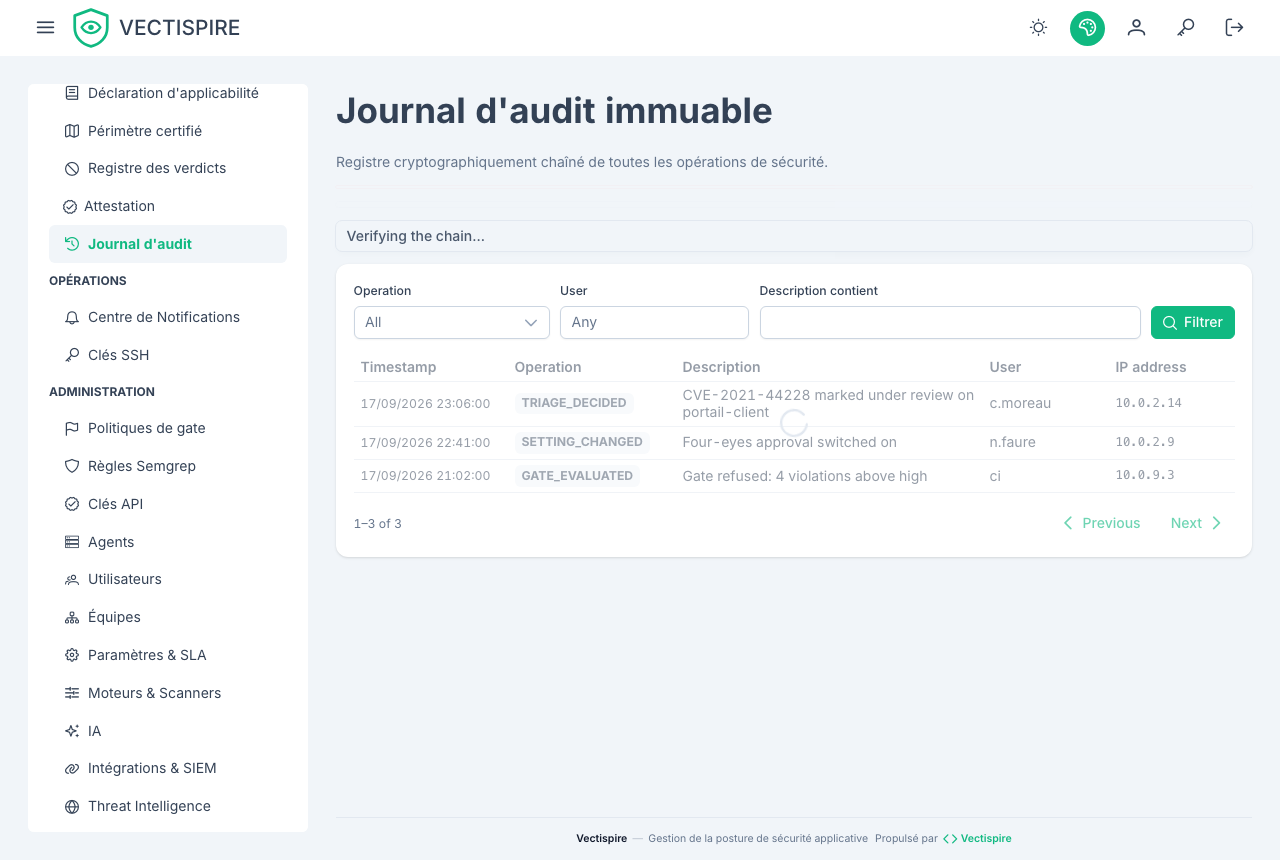
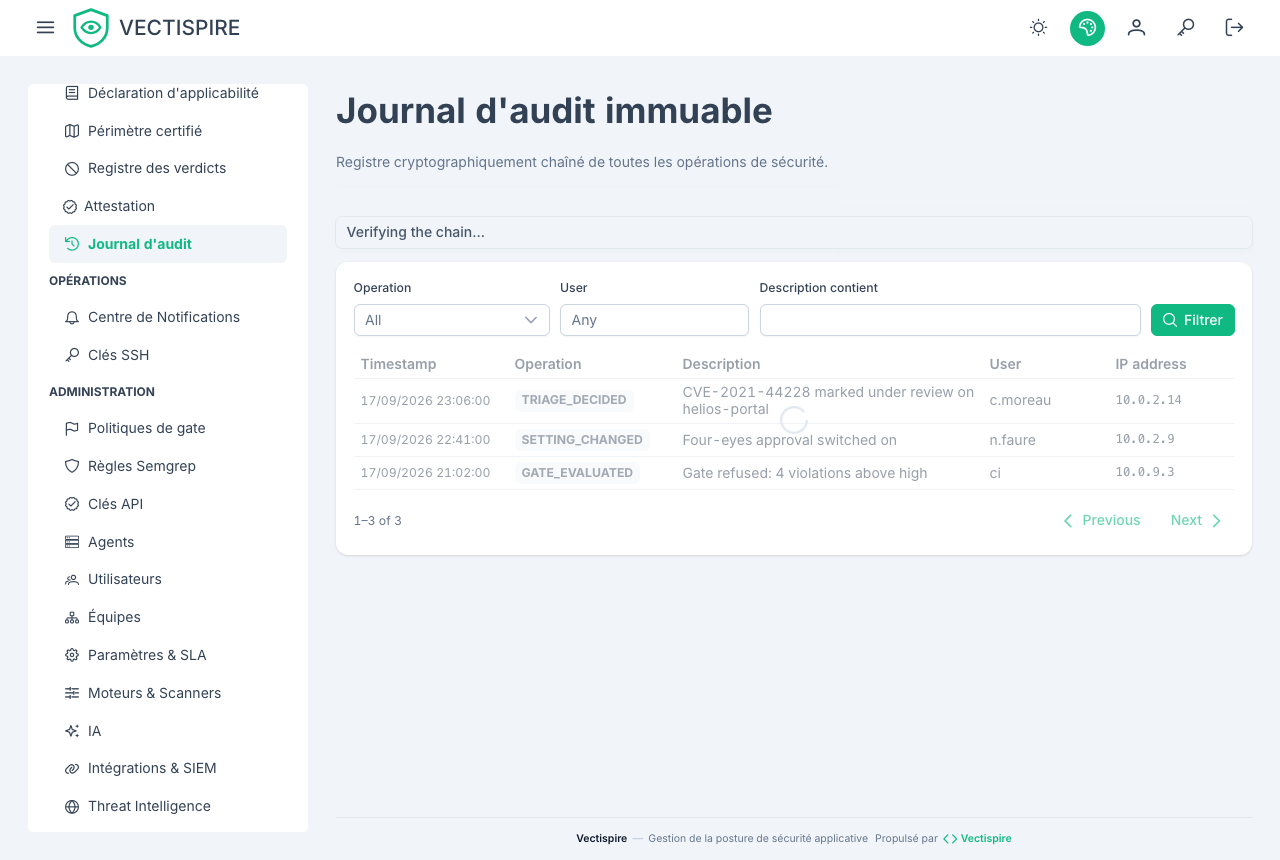
docs(screens): fictional project names in the fixtures
The captures showed "portail-client" and "arm-libs", two names that read like
somebody's real estate. They are now "helios-portal" and "basalt-libs", which
read like what they are: invented.

The rename covers every fixture that carries them, not only the two screens
asked about — a screenshot naming one project and a unit test naming another
would leave the old names in the repository for no gain.

diff --git a/vectispire-angular/e2e/screens.spec.ts b/vectispire-angular/e2e/screens.spec.ts
@@ -160,7 +160,7 @@ test.describe('documentation screenshots', () => {
             await stub(page, '**/api/v1/exceptions*', {
                 entries: [{
                     issue_id: 41, identifier: 'CVE-2026-0001', severity: 'critical',
-                    target_kind: 'REPOSITORY', target_id: 7, target_name: 'portail-client',
+                    target_kind: 'REPOSITORY', target_id: 7, target_name: 'helios-portal',
                     decision: 'not_affected', justification: 'vulnerable_code_not_in_execute_path',
                     comment: null, actor: 'c.moreau', origin: 'manual',
                     decided_at: '2026-01-12T09:00:00Z', expires_at: '2026-08-12T00:00:00Z',
@@ -316,14 +316,14 @@ test.describe('documentation screenshots', () => {
                     {
                         issueId: 41, identifier: 'CVE-2021-44228', title: 'Log4Shell',
                         severity: 'critical', cvssScore: 10.0, epssScore: 0.975, epssPercentile: 0.999,
-                        isKev: true, reachability: 'REACHABLE', targetName: 'portail-client',
+                        isKev: true, reachability: 'REACHABLE', targetName: 'helios-portal',
                         targetKind: 'REPOSITORY', priorityScore: 98, priorityTier: 'CRITICAL_ARMED',
                         recommendedAction: 'P0_KEV_24H'
                     },
                     {
                         issueId: 42, identifier: 'CVE-2024-1086', title: 'Kernel use-after-free',
                         severity: 'high', cvssScore: 7.8, epssScore: 0.41, epssPercentile: 0.97,
-                        isKev: false, reachability: 'UNKNOWN', targetName: 'arm-libs',
+                        isKev: false, reachability: 'UNKNOWN', targetName: 'basalt-libs',
                         targetKind: 'REPOSITORY', priorityScore: 64, priorityTier: 'HIGH_PROBABLE',
                         recommendedAction: 'P1_7D'
                     }
@@ -341,17 +341,17 @@ test.describe('documentation screenshots', () => {
             const locale = edition(testInfo.project.name);
             await stubEverything(page);
             await stub(page, '**/api/v1/repositories*', [
-                { id: 5, name: 'portail-client', url: 'ssh://git@example.invalid/portail.git', branch: 'main' }
+                { id: 5, name: 'helios-portal', url: 'ssh://git@example.invalid/helios-portal.git', branch: 'main' }
             ]);
             // The history the two pickers read. It replaced two number fields asking for internal
             // identifiers, so a capture showing dates is the whole point of the change.
             await stub(page, '**/api/v1/scans*', [
                 { id: 34, status: 'completed', branch: 'main', targetKind: 'REPOSITORY',
-                  targetName: 'portail-client', createdAt: '2026-09-17T21:04:00Z', durationMs: 91_000,
+                  targetName: 'helios-portal', createdAt: '2026-09-17T21:04:00Z', durationMs: 91_000,
                   findingsCount: 7, newIssuesCount: 1, resolvedIssuesCount: 3, error: null,
                   claimedBy: null, attempts: 1, targetId: 5 },
                 { id: 33, status: 'completed', branch: 'main', targetKind: 'REPOSITORY',
-                  targetName: 'portail-client', createdAt: '2026-09-10T21:03:00Z', durationMs: 88_000,
+                  targetName: 'helios-portal', createdAt: '2026-09-10T21:03:00Z', durationMs: 88_000,
                   findingsCount: 9, newIssuesCount: 0, resolvedIssuesCount: 0, error: null,
                   claimedBy: null, attempts: 1, targetId: 5 }
             ]);
@@ -361,7 +361,7 @@ test.describe('documentation screenshots', () => {
             // The comparison is the second tab; by position, because the label is translated.
             await page.getByRole('button').filter({ hasText: /SBOM|diff|comparaison/i }).first().click();
             await page.locator('#diff-target').click();
-            await page.getByRole('option').filter({ hasText: 'portail-client' }).first().click();
+            await page.getByRole('option').filter({ hasText: 'helios-portal' }).first().click();
 
             // The two most recent are preselected, so the screen answers "since last time" before
             // anybody clicks. A capture of two empty pickers would be a capture of the old defect.
@@ -377,13 +377,13 @@ test.describe('documentation screenshots', () => {
                            neverScannedCount: 1, lastScanFailedCount: 1 },
                 backlogBySeverity: { CRITICAL: 4, HIGH: 12, MEDIUM: 31, LOW: 365 },
                 failing: [
-                    { kind: 'repository', targetId: 5, name: 'portail-client', violations: [] },
+                    { kind: 'repository', targetId: 5, name: 'helios-portal', violations: [] },
                     { kind: 'container', targetId: 3, name: 'registry.example/api:1.4', violations: [] }
                 ],
                 recentScans: [
-                    { id: 34, status: 'completed', targetKind: 'repository', targetName: 'portail-client',
+                    { id: 34, status: 'completed', targetKind: 'repository', targetName: 'helios-portal',
                       repoId: 5, containerId: null, error: null, createdAt: '2026-09-17T21:04:00Z' },
-                    { id: 33, status: 'failed', targetKind: 'repository', targetName: 'arm-libs',
+                    { id: 33, status: 'failed', targetKind: 'repository', targetName: 'basalt-libs',
                       repoId: 6, containerId: null, error: 'clone refused', createdAt: '2026-09-17T03:10:00Z' }
                 ]
             });
@@ -404,7 +404,7 @@ test.describe('documentation screenshots', () => {
             await enterApp(page, locale);
             await openScreen(page, '/dashboard');
 
-            await expect(page.getByText('portail-client').first()).toBeVisible({ timeout: 15_000 });
+            await expect(page.getByText('helios-portal').first()).toBeVisible({ timeout: 15_000 });
             await shoot(page, 'dashboard', locale);
         });
 
@@ -421,9 +421,9 @@ test.describe('documentation screenshots', () => {
             });
             await stub(page, '**/api/v1/issues*', {
                 items: [
-                    issue(41, 'CVE-2021-44228', 'critical', 'log4j-core', '2.14.1', 'portail-client'),
+                    issue(41, 'CVE-2021-44228', 'critical', 'log4j-core', '2.14.1', 'helios-portal'),
                     issue(42, 'CVE-2024-1086', 'high', 'linux-libc-dev', '6.1.0', 'registry.example/api:1.4'),
-                    issue(43, 'CVE-2023-44487', 'medium', 'netty-codec-http2', '4.1.94', 'arm-libs')
+                    issue(43, 'CVE-2023-44487', 'medium', 'netty-codec-http2', '4.1.94', 'basalt-libs')
                 ],
                 total: 412, limit: 25, offset: 0
             });
@@ -440,13 +440,13 @@ test.describe('documentation screenshots', () => {
             const locale = edition(testInfo.project.name);
             await stubEverything(page);
             await stub(page, '**/api/v1/repositories*', [
-                { id: 5, url: 'ssh://git@example.invalid/portail.git', branch: 'main',
-                  displayName: 'portail-client', name: 'portail-client', subPath: null }
+                { id: 5, url: 'ssh://git@example.invalid/helios-portal.git', branch: 'main',
+                  displayName: 'helios-portal', name: 'helios-portal', subPath: null }
             ]);
             // Node notes and the scenario are tokens since this week: the graph and its narrative
             // are written by the screen, so the two editions differ throughout.
             const graph = {
-                targetId: 5, targetName: 'portail-client',
+                targetId: 5, targetName: 'helios-portal',
                 nodes: [
                     { id: 'ingress', label: 'Internet Ingress (0.0.0.0/0)', type: 'INTERNET_INGRESS',
                       severity: 'INFO', isExploitable: true, note: 'PUBLIC_INGRESS', metadata: {} },
@@ -488,13 +488,13 @@ test.describe('documentation screenshots', () => {
             // criticality is `tier`. Reading the contract is how a fixture stops being a second
             // opinion about the server.
             await stub(page, '**/api/v1/repositories*', [
-                { id: 5, url: 'ssh://git@example.invalid/portail.git', branch: 'main',
-                  displayName: 'portail-client', name: 'portail-client', subPath: null,
+                { id: 5, url: 'ssh://git@example.invalid/helios-portal.git', branch: 'main',
+                  displayName: 'helios-portal', name: 'helios-portal', subPath: null,
                   openIssues: 214, tier: 'TIER_1', scanIntervalMinutes: 1440, scanCron: null,
                   sshKeyId: null, requiredAgentLabel: null, lastScheduledScanAt: '2026-09-17T21:00:00Z',
                   lastScan: { id: 34, status: 'completed', createdAt: '2026-09-17T21:04:00Z', error: null } },
-                { id: 6, url: 'ssh://git@example.invalid/arm-libs.git', branch: 'master',
-                  displayName: 'arm-libs', name: 'arm-libs', subPath: null,
+                { id: 6, url: 'ssh://git@example.invalid/basalt-libs.git', branch: 'master',
+                  displayName: 'basalt-libs', name: 'basalt-libs', subPath: null,
                   openIssues: 37, tier: 'TIER_3', scanIntervalMinutes: null, scanCron: '0 3 * * *',
                   sshKeyId: null, requiredAgentLabel: null, lastScheduledScanAt: '2026-09-16T03:00:00Z',
                   lastScan: { id: 30, status: 'failed', createdAt: '2026-09-16T03:11:00Z',
@@ -503,7 +503,7 @@ test.describe('documentation screenshots', () => {
             await enterApp(page, locale);
             await openScreen(page, '/repositories');
 
-            await expect(page.getByText('arm-libs').first()).toBeVisible({ timeout: 15_000 });
+            await expect(page.getByText('basalt-libs').first()).toBeVisible({ timeout: 15_000 });
             await shoot(page, 'repositories', locale);
         });
 
@@ -516,13 +516,13 @@ test.describe('documentation screenshots', () => {
                 totalCount: 4, failingCount: 1, kevCount: 1,
                 neverScannedCount: 1, lastScanFailedCount: 1,
                 targets: [
-                    { targetId: 5, kind: 'repository', name: 'portail-client', observed: true,
+                    { targetId: 5, kind: 'repository', name: 'helios-portal', observed: true,
                       passed: false, lastScanAt: '2026-09-17T21:04:00Z', lastScanId: 34,
                       observation: 'FRESH',
                       policy: { source: 'built-in', version: null },
                       verdict: { passed: false, evaluated: 412, violations: [],
                                  countsBySeverity: { CRITICAL: 1, HIGH: 3 } } },
-                    { targetId: 6, kind: 'repository', name: 'arm-libs', observed: true,
+                    { targetId: 6, kind: 'repository', name: 'basalt-libs', observed: true,
                       passed: true, lastScanAt: '2026-09-16T03:11:00Z', lastScanId: 30,
                       observation: 'STALE',
                       policy: { source: 'built-in', version: null },
@@ -577,7 +577,7 @@ test.describe('documentation screenshots', () => {
                 items: [
                     { id: '0195f3a1-0001', timestamp: '2026-09-17T21:06:00Z', userId: 'c.moreau',
                       operationType: 'TRIAGE_DECIDED', resourceId: 'issue:41',
-                      description: 'CVE-2021-44228 marked under review on portail-client',
+                      description: 'CVE-2021-44228 marked under review on helios-portal',
                       ipAddress: '10.0.2.14', userAgent: 'Mozilla/5.0',
                       entryHash: '9f2c…a71b', previousHash: '4d81…ee02' },
                     { id: '0195f3a1-0002', timestamp: '2026-09-17T20:41:00Z', userId: 'n.faure',

diff --git a/vectispire-angular/src/app/pages/repositories/repositories.spec.ts b/vectispire-angular/src/app/pages/repositories/repositories.spec.ts
@@ -20,7 +20,7 @@ describe('the repository list', () => {
 
     const REPOSITORY = asSchema('RepositorySummary', {
             id: 5,
-            url: 'ssh://git@bitbucket.example.com/art/arm-libs-spring.git',
+            url: 'ssh://git@bitbucket.example.com/art/basalt-libs-spring.git',
             branch: 'master',
             name: null,
             displayName: 'Arm Libs Spring',
@@ -59,7 +59,7 @@ describe('the repository list', () => {
 
         const text = fixture.nativeElement.textContent as string;
         expect(text).toContain('Arm Libs Spring');
-        expect(text).toContain('ssh://git@bitbucket.example.com/art/arm-libs-spring.git');
+        expect(text).toContain('ssh://git@bitbucket.example.com/art/basalt-libs-spring.git');
         expect(text).toContain('master');
         expect(text).toContain('38 outstanding');
     });

diff --git a/vectispire-angular/src/app/pages/owasp/owasp.spec.ts b/vectispire-angular/src/app/pages/owasp/owasp.spec.ts
@@ -169,12 +169,12 @@ describe('the OWASP report screen', () => {
             blocks: [{ kind: 'CATEGORY', level: 2, marker: null, text: 'A03 — Injection' }],
             error: null,
             scanId: 34,
-            inputs: '=== DATA ===\nRepository: arm-libs\nOpen findings: 2',
+            inputs: '=== DATA ===\nRepository: basalt-libs\nOpen findings: 2',
             createdAt: '2026-09-17T09:00:00Z'
         });
 
         const text = fixture.nativeElement.textContent as string;
-        expect(text).toContain('Repository: arm-libs');
+        expect(text).toContain('Repository: basalt-libs');
         // Said where a reader sees it, not only in the code: the prose is a commentary, and nothing
         // it asserts becomes a finding or reaches a gate.
         expect(text).toContain('nothing it asserts becomes an issue');

diff --git a/vectispire-angular/src/app/pages/inventory/inventory.spec.ts b/vectispire-angular/src/app/pages/inventory/inventory.spec.ts
@@ -125,7 +125,7 @@ describe('the component search', () => {
 
     /** A scan as the history returns it: newest first, and what the pickers read. */
     const scan = (id: number, when: string) => ({
-        id, status: 'completed', branch: 'main', targetKind: 'REPOSITORY', targetName: 'portail-client',
+        id, status: 'completed', branch: 'main', targetKind: 'REPOSITORY', targetName: 'helios-portal',
         createdAt: when, durationMs: 1200, findingsCount: 7, newIssuesCount: 0, resolvedIssuesCount: 0,
         error: null, claimedBy: null, attempts: 1, targetId: 5
     });

diff --git a/vectispire-angular/e2e/evidence-screens.spec.ts b/vectispire-angular/e2e/evidence-screens.spec.ts
@@ -42,7 +42,7 @@ test.describe('Evidence screens', () => {
         severity: 'critical',
         target_kind: 'REPOSITORY',
         target_id: 7,
-        target_name: 'portail-client',
+        target_name: 'helios-portal',
         decision: 'not_affected',
         justification: 'vulnerable_code_not_in_execute_path',
         comment: null,

diff --git a/vectispire-angular/src/app/pages/users/users.spec.ts b/vectispire-angular/src/app/pages/users/users.spec.ts
@@ -38,7 +38,7 @@ describe('the accounts screen', () => {
     });
 
     const TARGETS = asSchema('Targets', {
-        repositories: [{ id: 7, label: 'portail-client' }],
+        repositories: [{ id: 7, label: 'helios-portal' }],
         containers: [{ id: 3, label: 'registry/service:1.4' }]
     });
 

diff --git a/vectispire-java/vectispire-common/src/test/java/com/asmolabs/vectispire/common/scanning/ProjectManifestTest.java b/vectispire-java/vectispire-common/src/test/java/com/asmolabs/vectispire/common/scanning/ProjectManifestTest.java
@@ -29,7 +29,7 @@ class ProjectManifestTest {
             // project's, so a wrong reading is unmistakable.
             write("pom.xml", """
                     <project>
-                      <artifactId>arm-libs-spring</artifactId>
+                      <artifactId>basalt-libs-spring</artifactId>
                       <version>2.4.1</version>
                       <dependencies>
                         <dependency>
@@ -55,7 +55,7 @@ class ProjectManifestTest {
                         <artifactId>arm-parent</artifactId>
                         <version>1.8.0</version>
                       </parent>
-                      <artifactId>arm-libs-spring</artifactId>
+                      <artifactId>basalt-libs-spring</artifactId>
                     </project>
                     """);
 

diff --git a/vectispire-java/vectispire-core/src/test/java/com/asmolabs/vectispire/core/api/OwaspReportTest.java b/vectispire-java/vectispire-core/src/test/java/com/asmolabs/vectispire/core/api/OwaspReportTest.java
@@ -67,7 +67,7 @@ class OwaspReportTest extends ApiTestBase {
         service = new OwaspReviewService(models, results, issues, scans, Clock.fixed(NOW, ZoneOffset.UTC));
 
         RepositoryEntity entity = new RepositoryEntity();
-        entity.setUrl("ssh://git@example.com/art/arm-libs-spring.git");
+        entity.setUrl("ssh://git@example.com/art/basalt-libs-spring.git");
         entity.setName("Arm Libs Spring");
         entity.setBranch("master");
         repository = repositories.save(entity);

diff --git a/vectispire-java/vectispire-core/src/test/java/com/asmolabs/vectispire/core/api/HistoryTest.java b/vectispire-java/vectispire-core/src/test/java/com/asmolabs/vectispire/core/api/HistoryTest.java
@@ -231,7 +231,7 @@ class HistoryTest extends ApiTestBase {
 
     private long seedRepository() {
         RepositoryEntity repository = new RepositoryEntity();
-        repository.setUrl("ssh://git@bitbucket.example.com/art/arm-libs-spring.git");
+        repository.setUrl("ssh://git@bitbucket.example.com/art/basalt-libs-spring.git");
         repository.setName("Arm Libs Spring");
         repository.setBranch("master");
         return repositories.save(repository).getId();

diff --git a/vectispire-java/vectispire-core/src/integrationTest/java/com/asmolabs/vectispire/core/repositories/HistoryQueriesIntegrationTest.java b/vectispire-java/vectispire-core/src/integrationTest/java/com/asmolabs/vectispire/core/repositories/HistoryQueriesIntegrationTest.java
@@ -96,7 +96,7 @@ class HistoryQueriesIntegrationTest {
         repositories.deleteAll();
 
         RepositoryEntity repository = new RepositoryEntity();
-        repository.setUrl("ssh://git@example.com/art/arm-libs-spring.git");
+        repository.setUrl("ssh://git@example.com/art/basalt-libs-spring.git");
         repository.setName("Arm Libs Spring");
         repository.setBranch("master");
         repositoryId = repositories.save(repository).getId();
